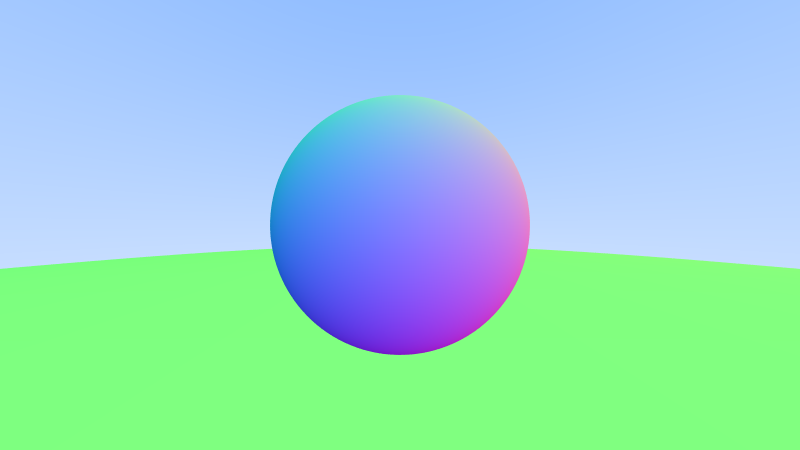
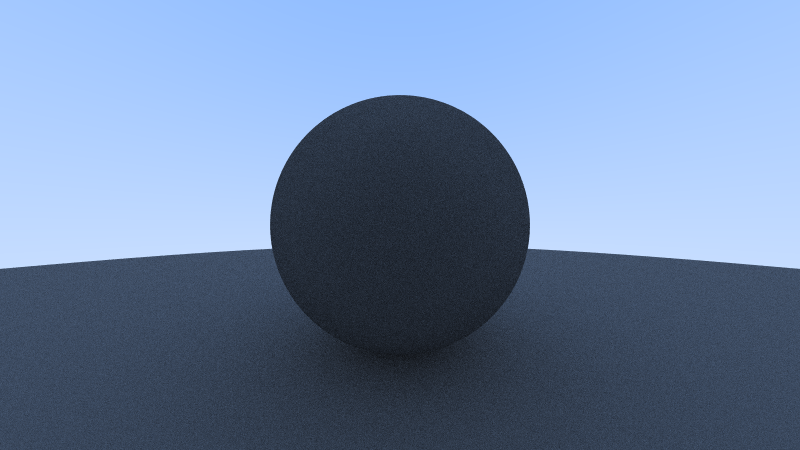
unbounded diffuse material sim

diff --git a/src/v3.rs b/src/v3.rs
@@ -1,4 +1,5 @@
-/// A simple 3D vector using f64s
+//! A simple 3D vector using f64s
+use rand::random_range;
 use std::ops::{
     Add, AddAssign, Div, DivAssign, Index, IndexMut, Mul, MulAssign, Neg, Sub, SubAssign,
 };
@@ -13,8 +14,35 @@ pub struct V3 {
 }
 
 impl V3 {
-    pub const fn new(x: f64, y: f64, z: f64) -> Self {
+    pub const fn new(x: f64, y: f64, z: f64) -> V3 {
         Self { x, y, z }
+    }
+
+    pub fn random(min: f64, max: f64) -> V3 {
+        V3::new(
+            random_range(min..max),
+            random_range(min..max),
+            random_range(min..max),
+        )
+    }
+
+    pub fn random_unit_vector() -> V3 {
+        loop {
+            let p = Self::random(-1.0, 1.0);
+            let sq_len = p.square_length();
+            if 1e-160 < sq_len && sq_len < 1.0 {
+                return p / sq_len.sqrt(); // avoiding computing sq_len again
+            }
+        }
+    }
+
+    pub fn random_on_hemisphere(normal: &V3) -> V3 {
+        let v = Self::random_unit_vector();
+        if v.dot(normal) > 0.0 {
+            v // Same hemisphere as `normal`
+        } else {
+            -v
+        }
     }
 
     pub const fn dot(&self, rhs: &V3) -> f64 {

diff --git a/src/ray.rs b/src/ray.rs
@@ -88,7 +88,9 @@ impl Camera {
 
     fn ray_color(&self, r: &Ray, world: &impl Hittable) -> Color {
         if let Some(hit_record) = world.hits(r, Interval::new(0.0, f64::INFINITY)) {
-            return 0.5 * (hit_record.normal + Color::new(1.0, 1.0, 1.0));
+            let v = V3::random_on_hemisphere(&hit_record.normal);
+            return 0.5 * self.ray_color(&Ray::new(hit_record.p, v), world);
+            // return 0.5 * (hit_record.normal + Color::new(1.0, 1.0, 1.0));
         }
 
         let unit_dir = r.dir.unit_vector();
